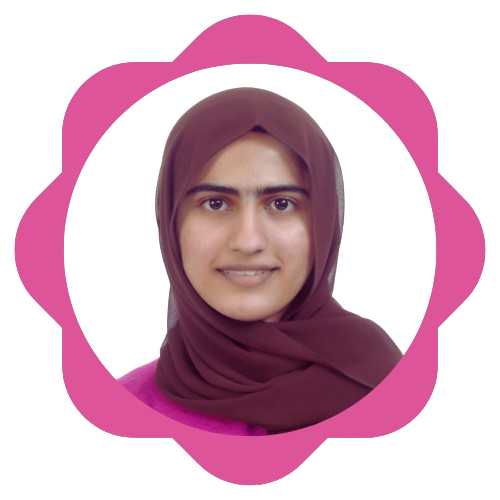
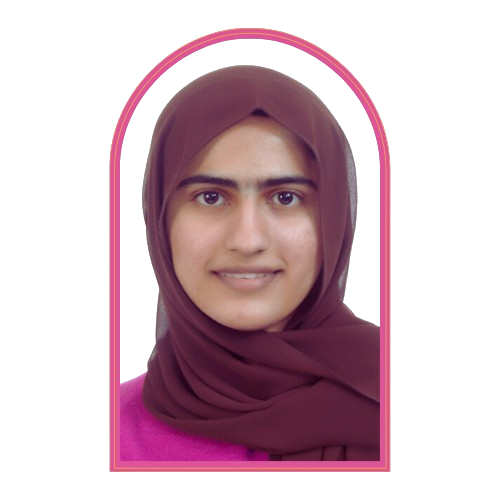
updating intro

diff --git a/src/components/Intro/intro.css b/src/components/Intro/intro.css
@@ -4,62 +4,58 @@
 @import url('https://fonts.googleapis.com/css2?family=Allura&family=Nanum+Myeongjo&family=Philosopher:ital,wght@0,400;0,700;1,400;1,700&display=swap');
 @import url('https://fonts.googleapis.com/css2?family=Allura&family=Great+Vibes&family=Nanum+Myeongjo&family=Philosopher:ital,wght@0,400;0,700;1,400;1,700&display=swap');
 
+/* Container for the entire intro section */
 #intro {
+    display: flex; /* Use Flexbox to align child elements */
     height: 100vh;
     width: 100vw;
     max-width: 100%;
     margin: 0 auto;
     overflow: hidden;
     position: relative;
-    
+    font-family: 'Kalnia'; /* Apply a default font-family to all text elements */
 }
 
-.bg {
-    position: absolute;
-    z-index: -1;
-    top:0;
-    right: 0;
-    object-fit: cover;
-    height: 70vh;
-    margin-top: 60px;
-    margin-right: 50px;
-}
-
+/* Container for the text content */
 .introContent {
-    height: 100vh;
-    width: 100vw;
+    flex: 1; /* Allow this to take up 50% of the width */
     padding: 2rem;
+    padding-left: 2rem;
     font-size: 70px;
-    font-weight: 700;
-    /*margin: 4rem;*/
+    font-weight: 300; /* Adjusted to be consistent */
     color: #264143;
     display: flex;
     flex-direction: column;
     justify-content: center;
-    font-family: 'kalnia';
-    font-optical-sizing: auto;
-    font-weight: 300;
-    margin-left: 50px;
+    margin-left: 0; /* Removed margin to fit perfectly */
     margin-top: 0;
-    
 }
 
-.hello{
+/* Styling for the image background */
+.bg {
+    flex: 0 0 20%; /* Allow this to take up 50% of the width */
+    /*position: relative;*/
+    height: 100%; /* Full height of the container */
+    object-fit: cover; /* Cover the entire area */
+    margin: 0; /* Remove margins for full coverage */
+}
+
+/* Styling for the text content in the intro section */
+.hello {
     font-size: 3rem;
     font-family: 'Great Vibes';
     font-weight: 500;
-
 }
 
 .introPara {
-    margin-right: 800px;
     font-size: 25px;
     font-family: "Nanum Myeongjo";
     margin-top: 20px;
     line-height: 35px;
+    text-align: left;
 }
 
-.introText{
+.introText {
     font-weight: 600;
 }
 
@@ -67,25 +63,23 @@
     color: #de5499;
 }
 
-.btn{
+/* Button styling */
+.btn {
     background: #e99f4c;
     color: #264143;
     border: none;
     border-radius: 3rem;
-    font-family: 'Kalnia';
     padding: 1rem;
     font-size: 20px;
     font-weight: 400;
     box-shadow: 0px 2px 4px rgba(0, 0, 0, 0.2);
-    transition: transform 0.3s ease, box-shadow 0.3s ease; 
-    
-
+    transition: transform 0.3s ease, box-shadow 0.3s ease;
 }
 
-.btn:hover{
-    transform: scale(1.1); /* Scale up by 10% on hover */
-    box-shadow: 0 0 0 3px rgba(222, 84, 153, 0.5), /* Initial border */
-    0 0 0 5px rgba(222, 84, 153, 0.5), /* Middle border */
-    0 0 0 8px rgba(222, 84, 153, 0.5); /* Outer border */
-    outline: none; /* Remove default outline */
+.btn:hover {
+    transform: scale(1.1);
+    box-shadow: 0 0 0 3px rgba(222, 84, 153, 0.5),
+                0 0 0 5px rgba(222, 84, 153, 0.5),
+                0 0 0 8px rgba(222, 84, 153, 0.5);
+    outline: none;
 }

diff --git a/src/components/Intro/intro.js b/src/components/Intro/intro.js
@@ -1,6 +1,6 @@
 import React from 'react';
 import './intro.css';
-import bg from "../../assets/intro1.png";
+import bg from "../../assets/intro.png";
 import { Link } from 'react-scroll';
 import { IoBag } from "react-icons/io5";
 
@@ -10,7 +10,7 @@ const Intro = () => {
         <div className="introContent">
             <span className='hello'>Hello,</span>
             <span className='introText'>I'm <span className='introName'>Iman</span><br/>Student</span>
-            <p className='introPara'> I am a Daedalus Scholar Student at Hunter College pursing my Bachelors in Computer Science. Combining my passion for technology with my love for design and innovation, I thrive on crafting imaginative solutions to complex problems.</p>
+            <p className='introPara'> I am a Daedalus Honors Scholar at Hunter College pursing my Bachelors in Computer Science. Combining my passion for technology with my love for design and innovation, I thrive on crafting imaginative solutions to complex problems.</p>
             <Link><button className='btn'><IoBag/>  Hire Me</button></Link>
         </div>
         <img src={bg} alt="" className="bg"/>
